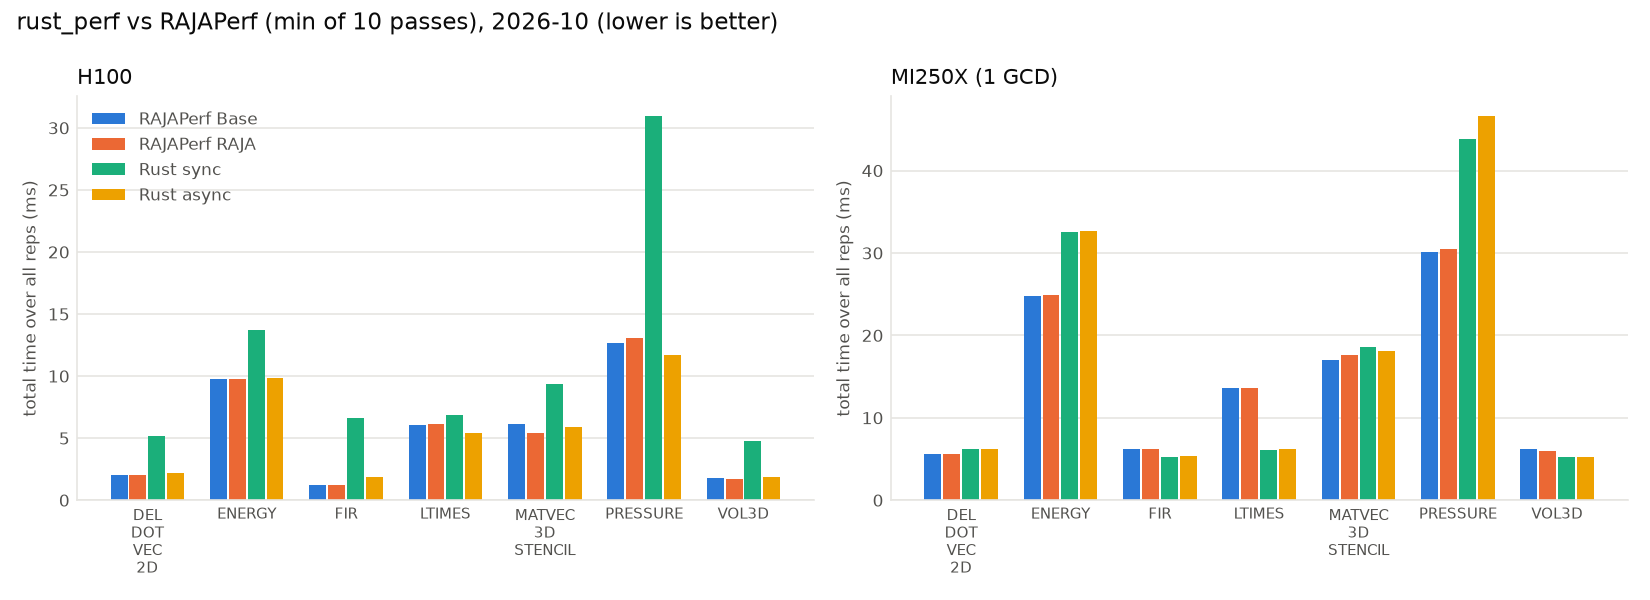
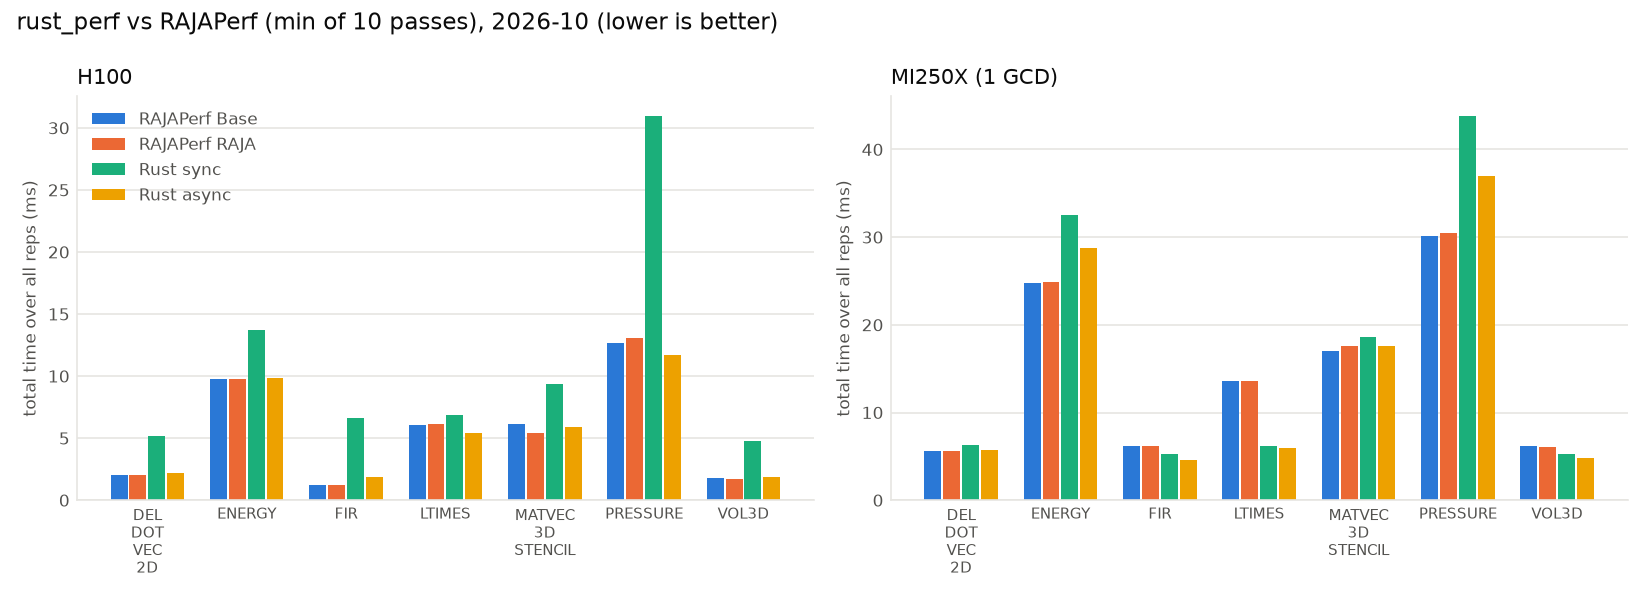
bench: MI250X barrier-bit async run (from the tioga output) in tables and plots

diff --git a/bench/2026-10/paper-tables.tex b/bench/2026-10/paper-tables.tex
@@ -1,23 +1,23 @@
-% tioga: RAJAPerf min of 10 passes; Rust async from rust-async.txt, sync from rust-sync.txt
+% tioga: RAJAPerf min of 10 passes; Rust async from rust-async-barrier.txt, sync from rust-sync.txt
 \pgfplotstableread[row sep=newline, col sep=space]{
 App RustOffloadSync RustOffload
-DEL_DOT_VEC_2D           0.006269  0.006228
-ENERGY                   0.032574  0.032709
-FIR                      0.005300  0.005400
-LTIMES                   0.006136  0.006238
-MATVEC_3D_STENCIL        0.018644  0.018051
-PRESSURE                 0.043854  0.046669
-VOL3D                    0.005216  0.005285
-avg                      0.016856  0.017226
+DEL_DOT_VEC_2D           0.006269  0.005714
+ENERGY                   0.032574  0.028799
+FIR                      0.005300  0.004587
+LTIMES                   0.006136  0.005915
+MATVEC_3D_STENCIL        0.018644  0.017633
+PRESSURE                 0.043854  0.037005
+VOL3D                    0.005216  0.004812
+avg                      0.016856  0.014924
 }\rustdatatioga
 % rust (async) slowdown over BaseHip
-% DEL_DOT_VEC_2D           1.117
-% ENERGY                   1.318
-% FIR                      0.867
-% LTIMES                   0.460
-% MATVEC_3D_STENCIL        1.062
-% PRESSURE                 1.548
-% VOL3D                    0.850
+% DEL_DOT_VEC_2D           1.025
+% ENERGY                   1.160
+% FIR                      0.737
+% LTIMES                   0.436
+% MATVEC_3D_STENCIL        1.037
+% PRESSURE                 1.228
+% VOL3D                    0.774
 
 \pgfplotstableread[row sep=newline, col sep=space]{
 BaseHip RajaHip

diff --git a/bench/2026-10/summary.md b/bench/2026-10/summary.md
@@ -19,13 +19,13 @@ RAJAPerf: minimum over 10 passes (`p10/`) when present, else the 3-pass average.
 
 | kernel | Base_HIP | RAJA_HIP | Rust sync | Rust async | async/Base | sync/Base |
 |---|---|---|---|---|---|---|
-| DEL_DOT_VEC_2D | 0.00558 | 0.00559 | 0.00627 | 0.00623 | 1.12 | 1.12 |
-| ENERGY | 0.02482 | 0.02487 | 0.03257 | 0.03271 | 1.32 | 1.31 |
-| FIR | 0.00623 | 0.00622 | 0.00530 | 0.00540 | 0.87 | 0.85 |
-| LTIMES | 0.01356 | 0.01359 | 0.00614 | 0.00624 | 0.46 | 0.45 |
-| MATVEC_3D_STENCIL | 0.01700 | 0.01764 | 0.01864 | 0.01805 | 1.06 | 1.10 |
-| PRESSURE | 0.03014 | 0.03046 | 0.04385 | 0.04667 | 1.55 | 1.45 |
-| VOL3D | 0.00621 | 0.00603 | 0.00522 | 0.00528 | 0.85 | 0.84 |
+| DEL_DOT_VEC_2D | 0.00558 | 0.00559 | 0.00627 | 0.00571 | 1.02 | 1.12 |
+| ENERGY | 0.02482 | 0.02487 | 0.03257 | 0.02880 | 1.16 | 1.31 |
+| FIR | 0.00623 | 0.00622 | 0.00530 | 0.00459 | 0.74 | 0.85 |
+| LTIMES | 0.01356 | 0.01359 | 0.00614 | 0.00592 | 0.44 | 0.45 |
+| MATVEC_3D_STENCIL | 0.01700 | 0.01764 | 0.01864 | 0.01763 | 1.04 | 1.10 |
+| PRESSURE | 0.03014 | 0.03046 | 0.04385 | 0.03701 | 1.23 | 1.45 |
+| VOL3D | 0.00621 | 0.00603 | 0.00522 | 0.00481 | 0.77 | 0.84 |
 
 ## Verification: checksums vs RAJAPerf Base (same init sequence and checksum formula)
 
